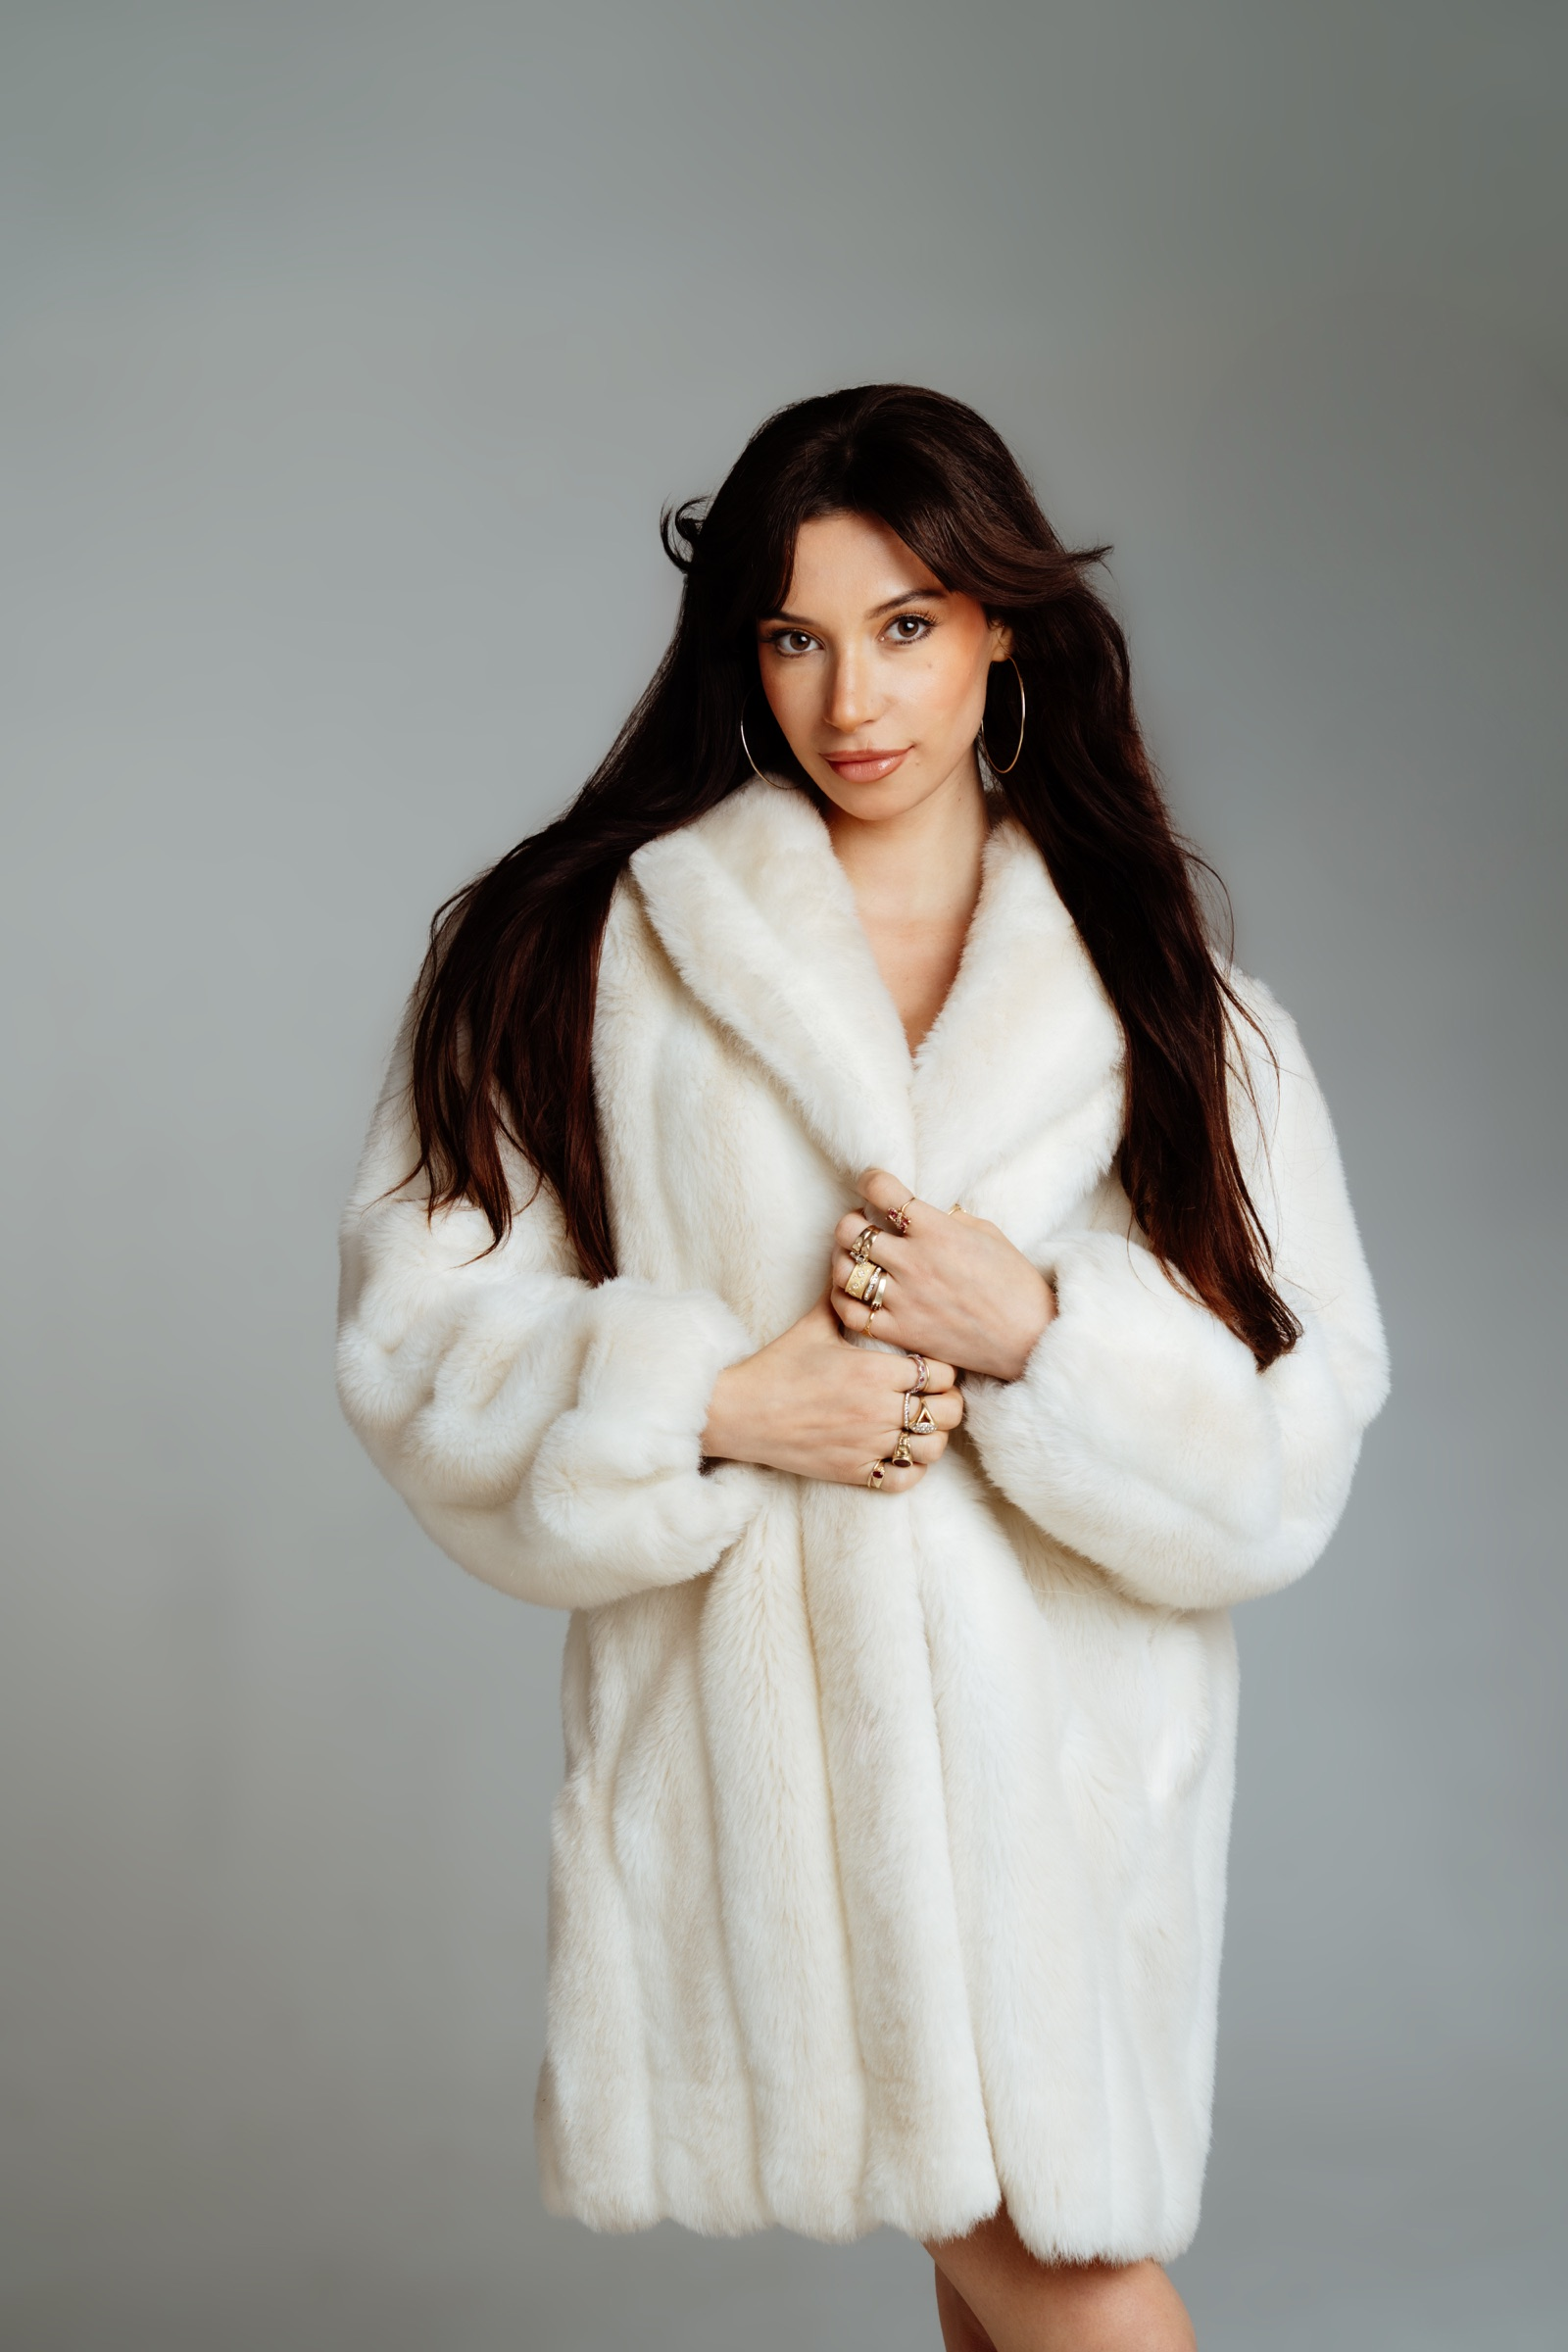
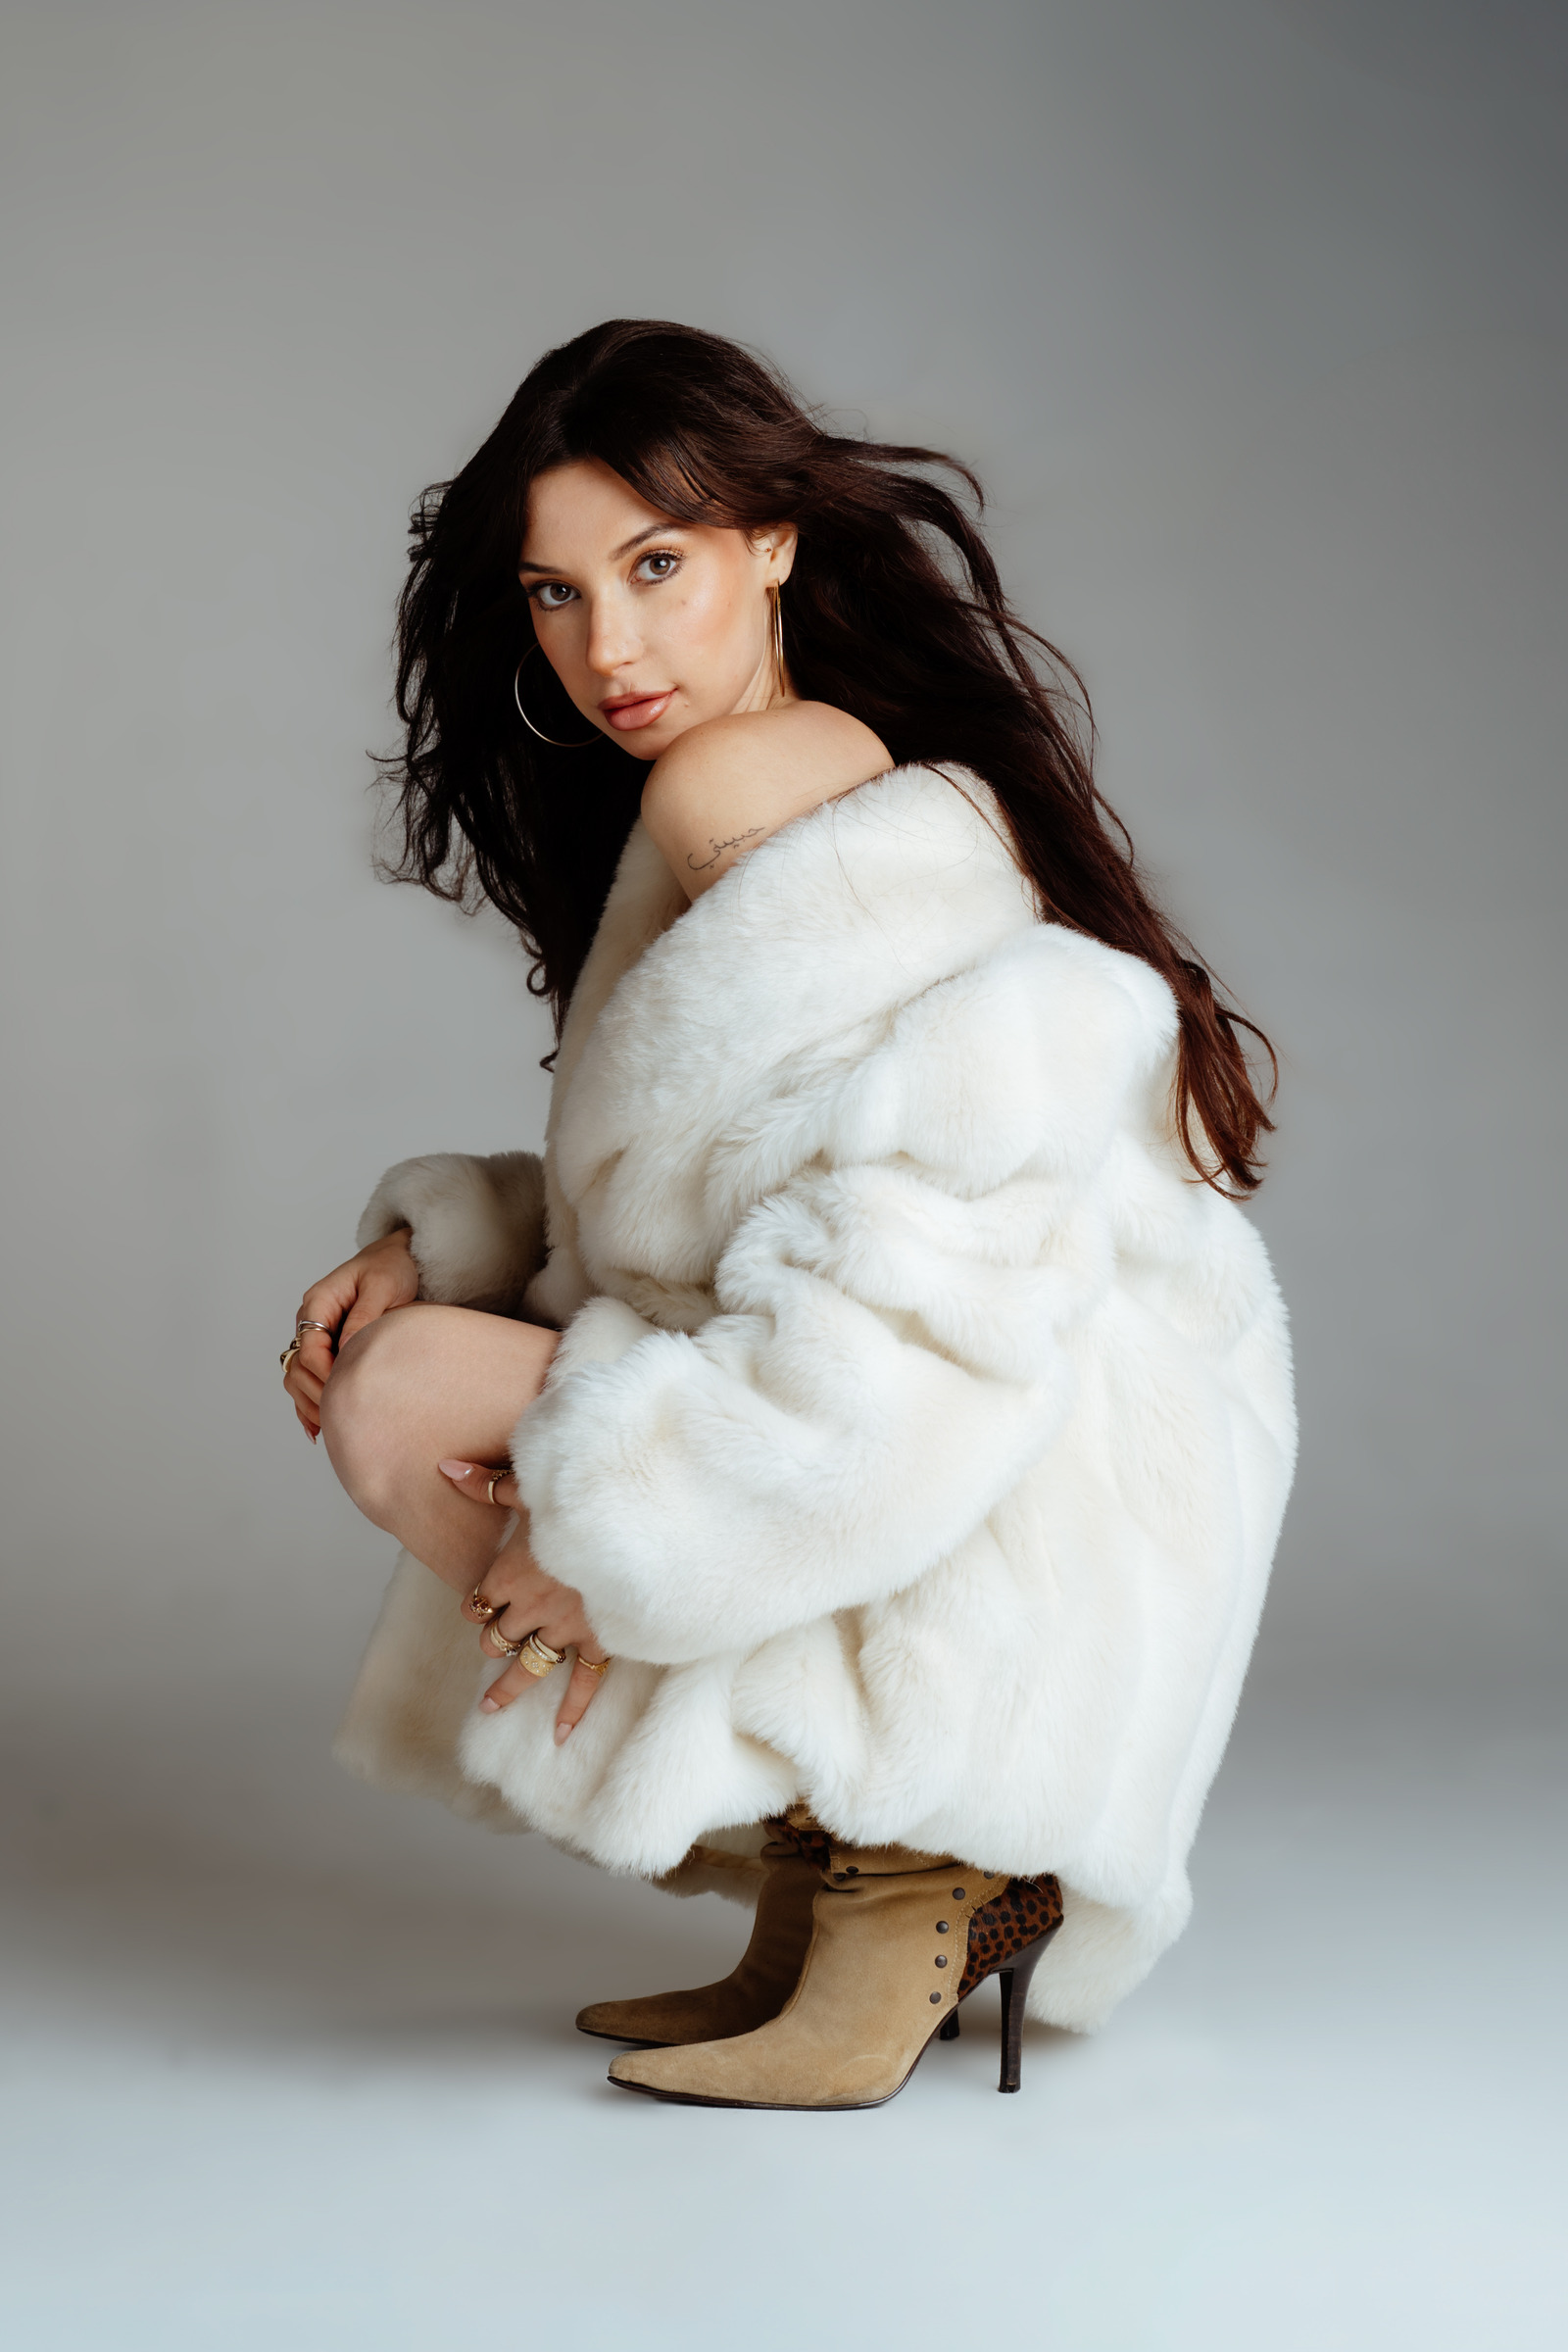
About portrait: use final2.jpg, uncropped and centered
The 4/5 cover frame was cutting the top and bottom off the portrait.
Switch .about__photo to 2/3 with object-fit:contain so the full figure
is visible head to boots.

In final2.jpg the subject sits right of centre, so a straight full-frame
placement left a large empty field on the left. Cropped only empty
background (equal 640px margins either side of the figure) to a 2:3
3470x5205 region, resized to 1600x2400.

diff --git a/styles.css b/styles.css
@@ -207,8 +207,8 @@ body.splash-lock{overflow:hidden}
 
 /* ---------- about ---------- */
 .about__inner{display:grid;grid-template-columns:1fr 1fr;gap:clamp(32px,5vw,80px);align-items:center}
-.about__photo{aspect-ratio:4/5;overflow:hidden;background:var(--cloud)}
-.about__photo img{width:100%;height:100%;object-fit:cover}
+.about__photo{aspect-ratio:2/3;overflow:hidden;background:var(--cloud)}
+.about__photo img{width:100%;height:100%;object-fit:contain}
 .about__text h2{margin-bottom:18px}
 .about__text p{margin-bottom:18px;max-width:48ch}
 .about__text .btn{margin-top:10px}